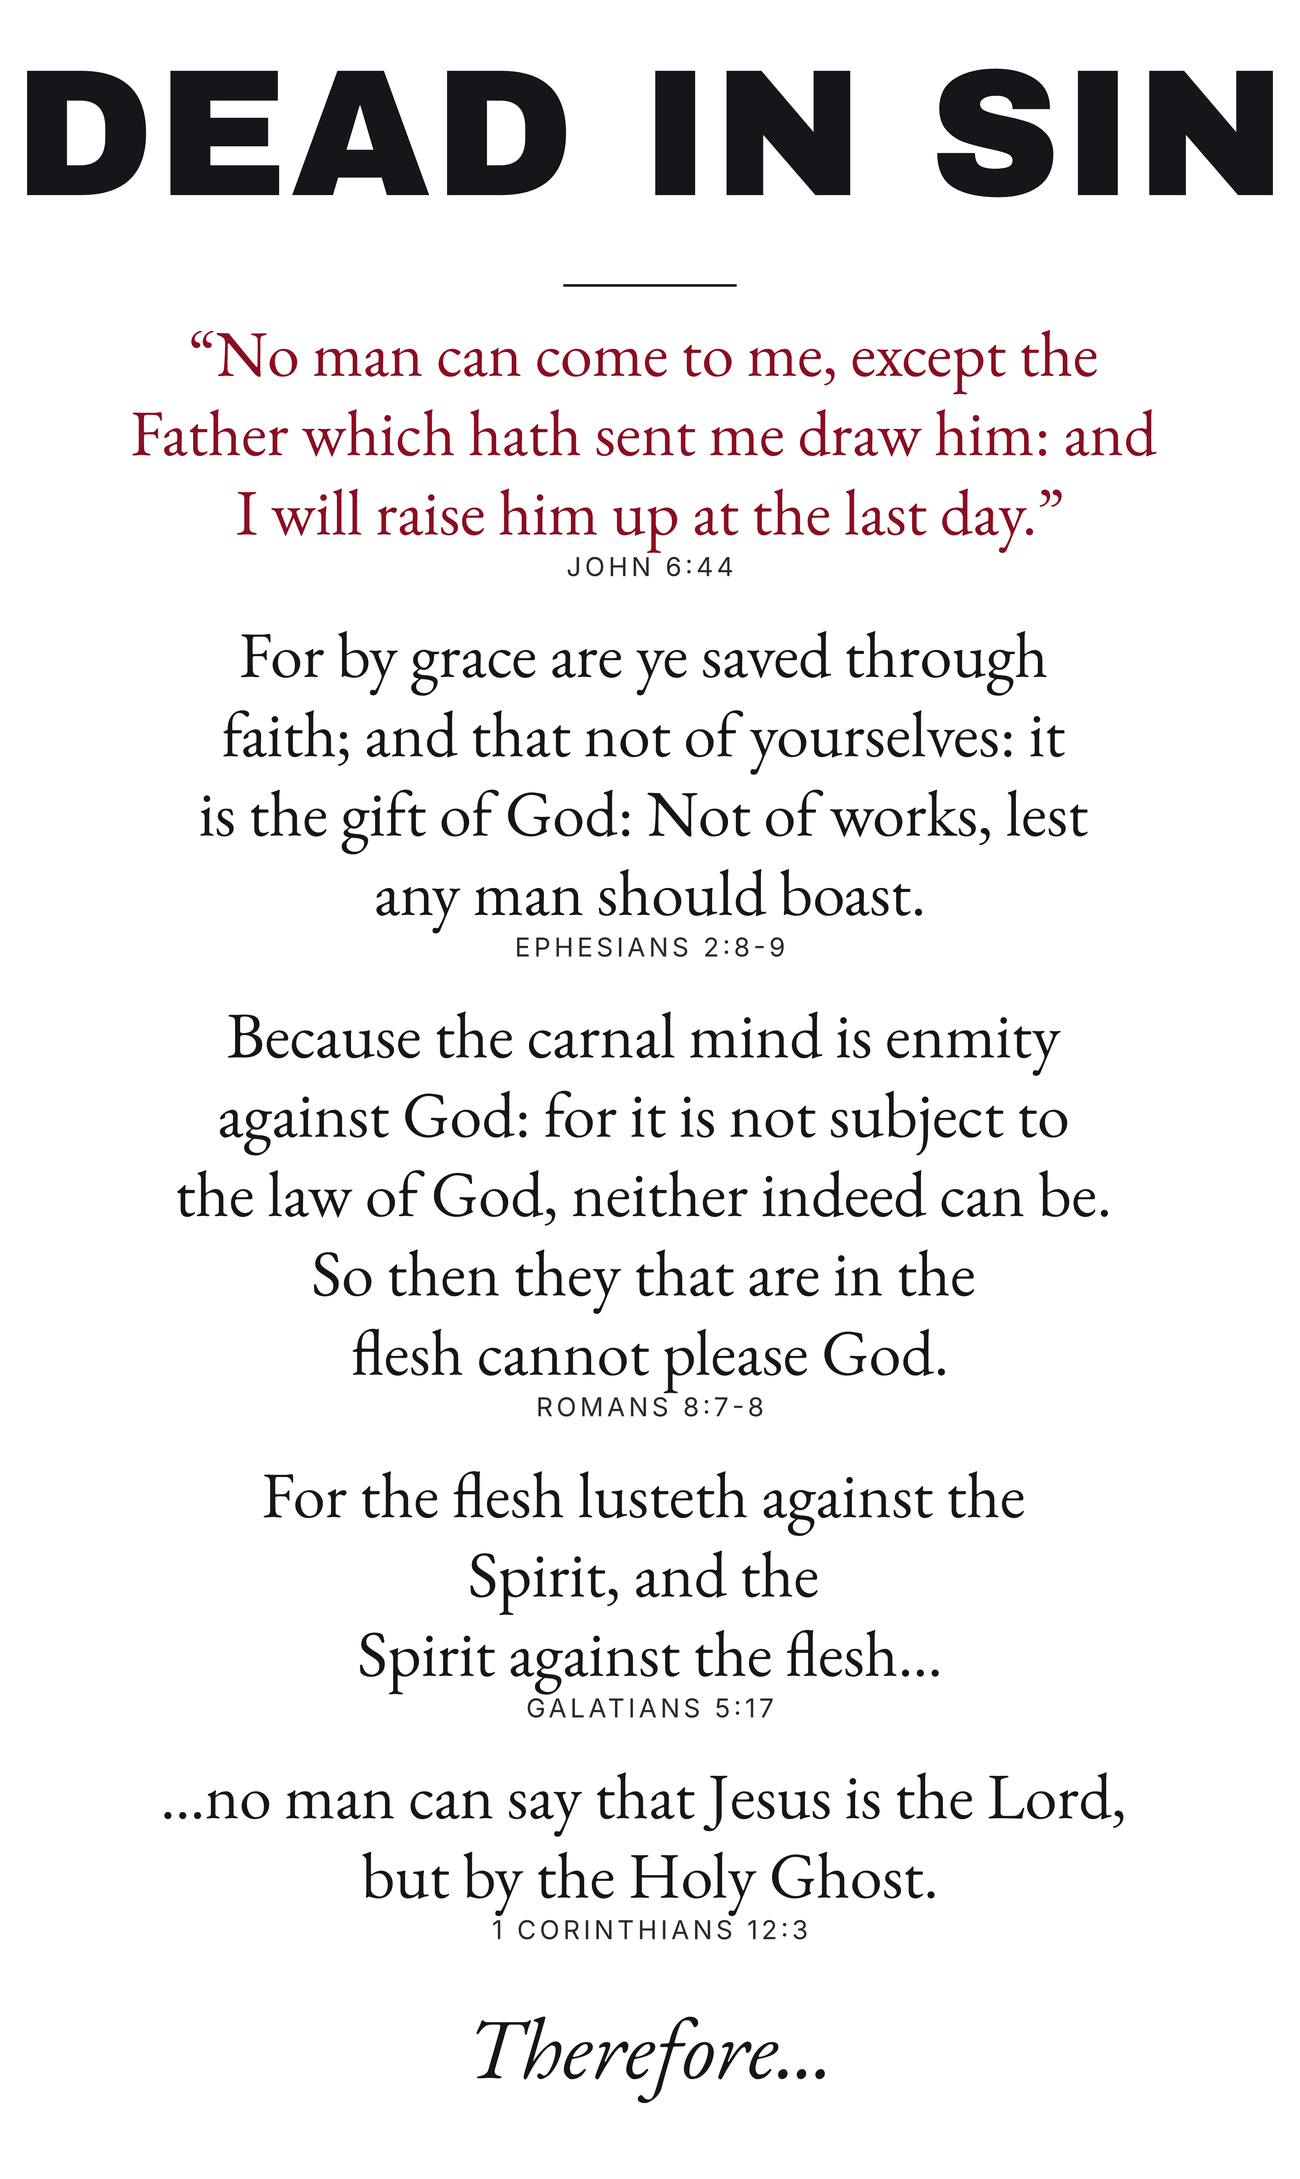
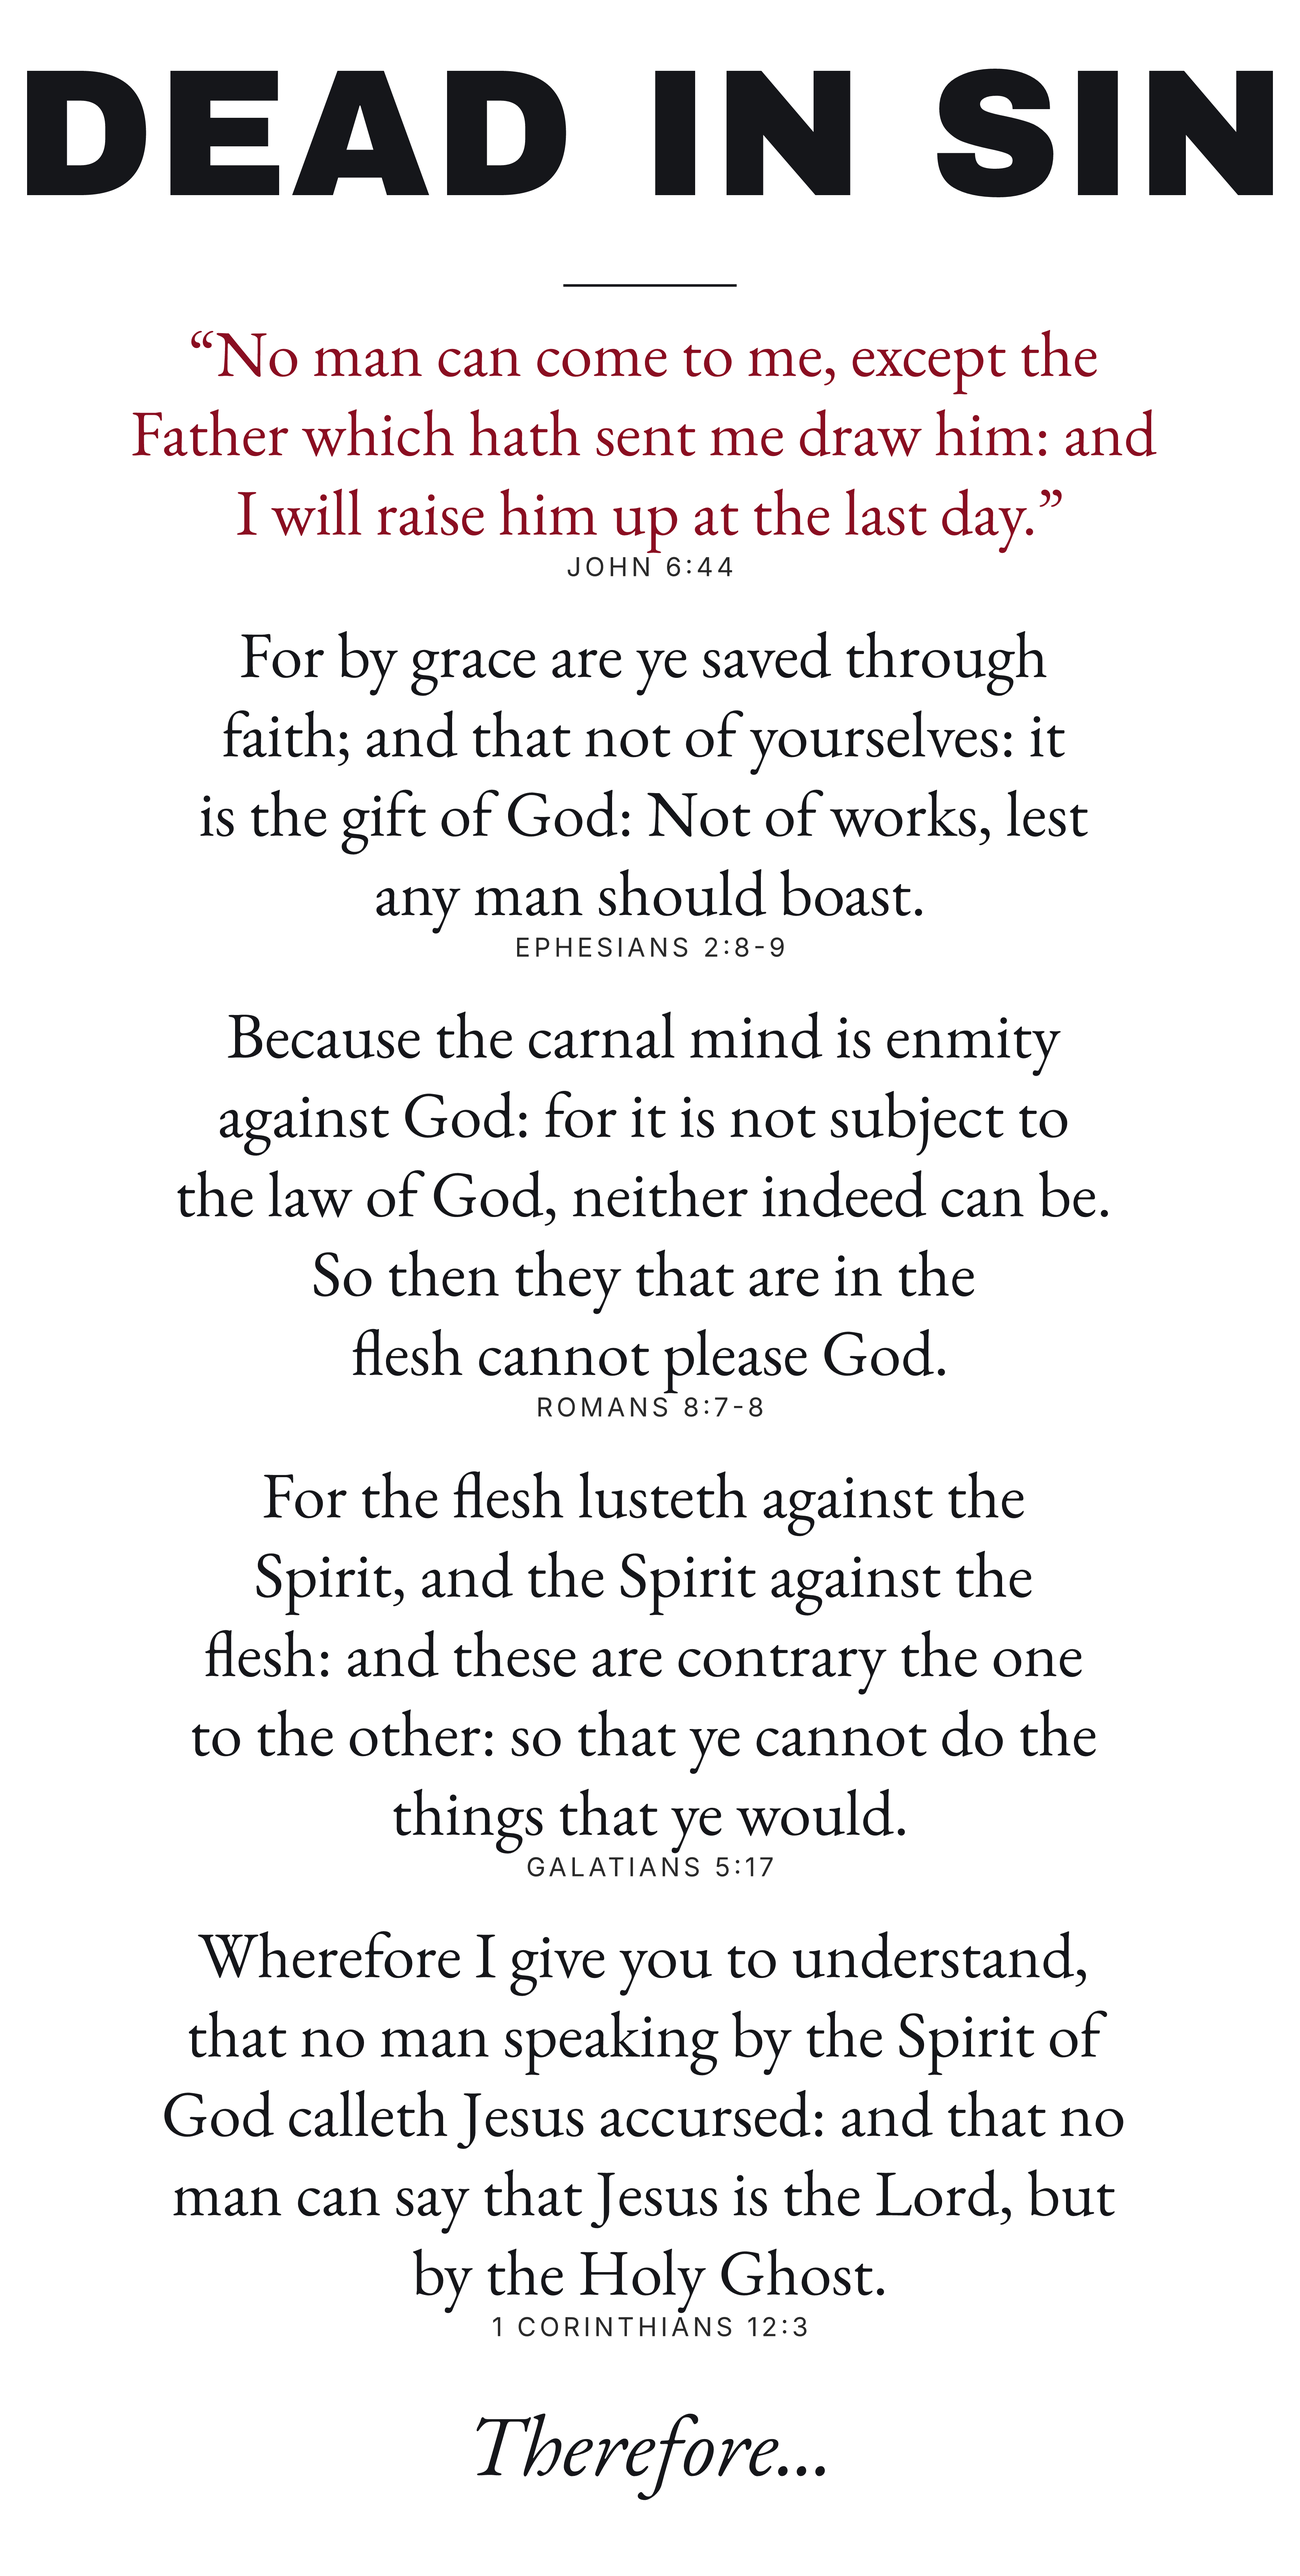
Use full verses (no truncation) for Gal 5:17 and 1 Cor 12:3
Replaced the ellipsis-truncated excerpts with the complete KJV verses:

  Gal 5:17 — full sentence through "...the things that ye would."
  1 Cor 12:3 — full sentence from "Wherefore I give you to understand..."

Front canvas height grows to 7129 px (~23.8" at 300 dpi). POD services
will scale to their max print height (typically 16-18") but text stays
readable at that scale.

diff --git a/shirts/third-article.md b/shirts/third-article.md
@@ -20,10 +20,10 @@ For by grace are ye saved through faith; and that not of yourselves: it is the g
 Because the carnal mind is enmity against God: for it is not subject to the law of God, neither indeed can be. So then they that are in the flesh cannot please God.
 
 ### Galatians 5:17
-For the flesh lusteth against the Spirit, and the Spirit against the flesh…
+For the flesh lusteth against the Spirit, and the Spirit against the flesh: and these are contrary the one to the other: so that ye cannot do the things that ye would.
 
 ### 1 Corinthians 12:3
-…no man can say that Jesus is the Lord, but by the Holy Ghost.
+Wherefore I give you to understand, that no man speaking by the Spirit of God calleth Jesus accursed: and that no man can say that Jesus is the Lord, but by the Holy Ghost.
 
 ### Closing
 Therefore...
